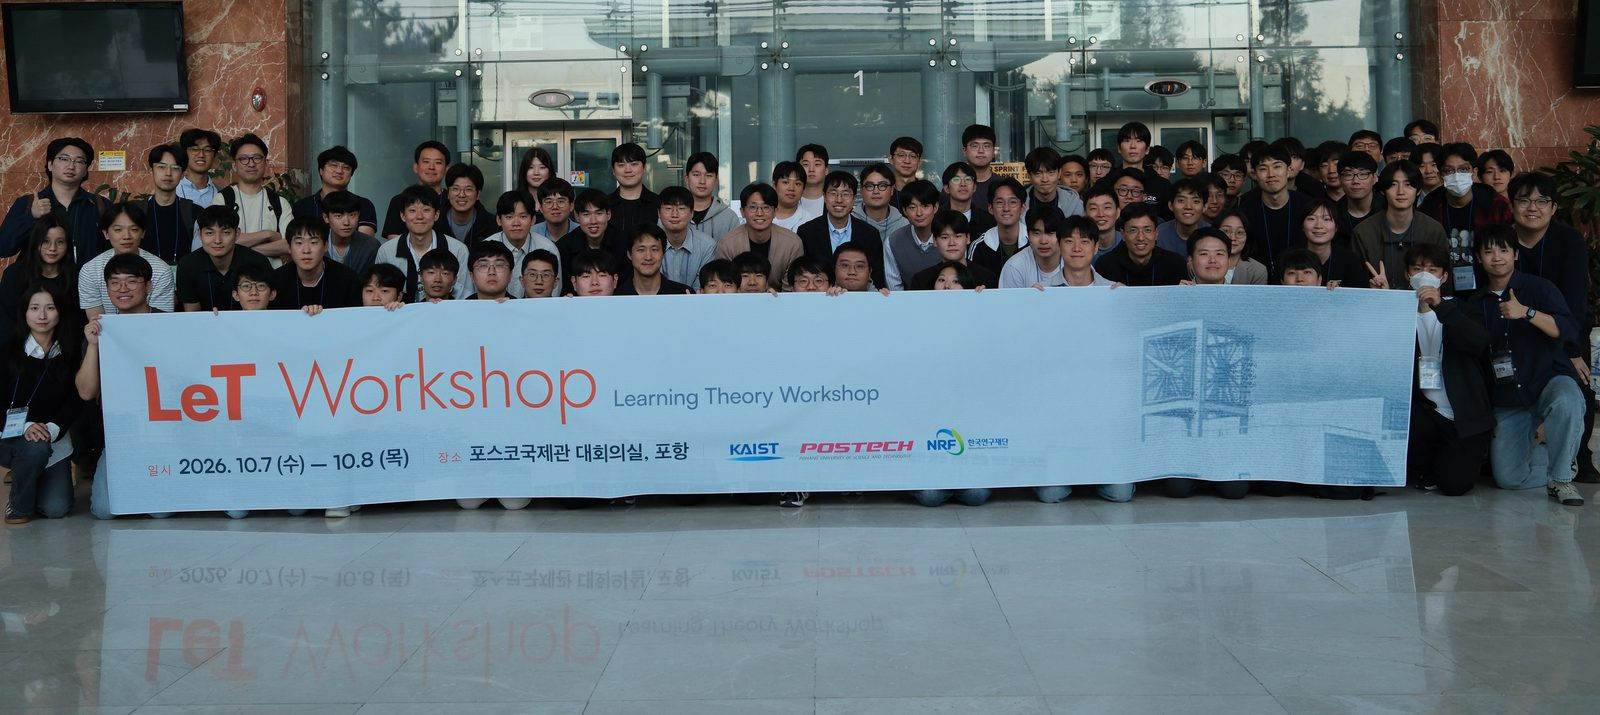
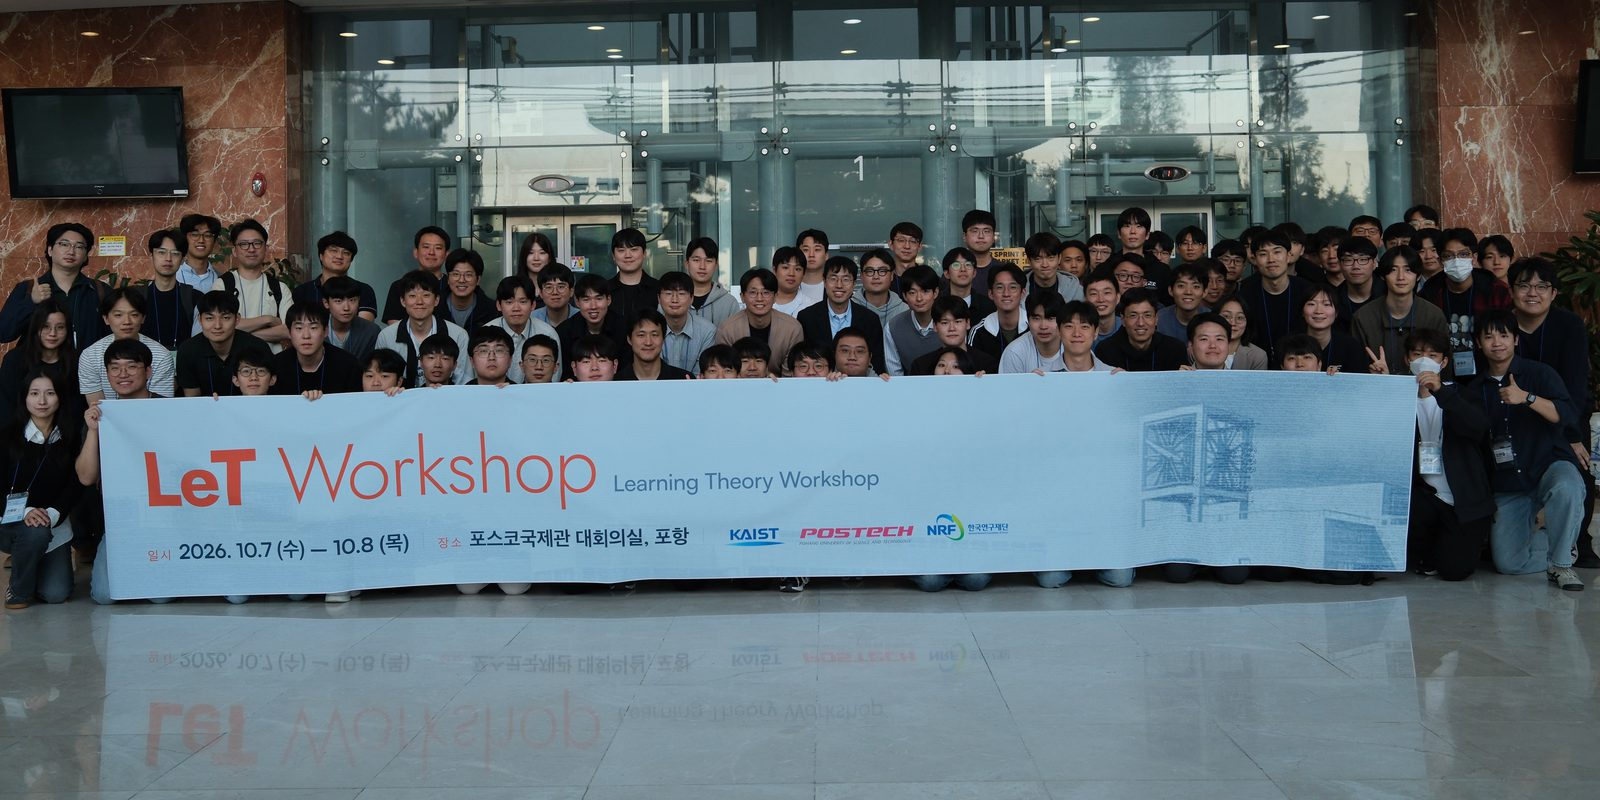
The crop is the page's, the original is the photograph — and 587KB stops being downloaded twice
A quarter off the top of the drawn copy rather than a third, so there is some
room above the crowd again; the full-size copy is no longer cropped at all.
Those are two different pictures now and should be: what the page draws is a
composition, two hundred pixels of ceiling being nothing to look at in a strip
that wide, and what opens behind "원본 보기" is the frame as it was taken,
which is what somebody asking for full size came for.

And the hero drawing was being downloaded twice on every first visit. The
preload asked for it with as="image"; the stylesheet uses it as a mask, which
is not the request a preload with as="image" can satisfy, so nothing ever
claimed the preloaded copy and the mask fetched its own. Both at full transfer
size, measured on a 390px viewport. The plate beside it is a background image,
the preload does match that one, and it stays.

Page weight on a phone goes 2.13MB to 1.49MB over the same 39 requests.

diff --git a/tools/prep-gallery.py b/tools/prep-gallery.py
@@ -50,8 +50,11 @@ def main() -> None:
     ap.add_argument("--no-full", action="store_true",
                     help="skip the full-size copy, for a picture not worth zooming")
     ap.add_argument("--crop-top", type=float, default=0, metavar="FRACTION",
-                    help="take this much off the top first, 0.33 for a third — "
-                         "a room photographed whole is mostly ceiling")
+                    help="take this much off the top of the drawn copy, 0.25 for "
+                         "a quarter — a room photographed whole is mostly "
+                         "ceiling. The full-size copy is never cropped: it is "
+                         "the picture as it was taken, which is what somebody "
+                         "opening it at full size came for")
     args = ap.parse_args()
 
     if not args.source.exists():
@@ -62,15 +65,21 @@ def main() -> None:
     # Pillow does not apply it on open — so a portrait arrives on its side.
     im = ImageOps.exif_transpose(Image.open(args.source)).convert("RGB")
     print(f"{args.source.name}  {im.width}×{im.height}")
+
+    # The crop is the page's, not the picture's. What the page draws is a
+    # composition — the ceiling is nothing to look at in a strip two hundred
+    # pixels tall — and what opens at full size is the photograph, where the
+    # room is part of what you are looking at.
+    shown = im
     if args.crop_top:
         if not 0 < args.crop_top < 1:
             raise SystemExit("--crop-top is a fraction of the height, 0 to 1")
         cut = round(im.height * args.crop_top)
-        im = im.crop((0, cut, im.width, im.height))
-        print(f"  cut {cut}px off the top  ->  {im.width}×{im.height}")
+        shown = im.crop((0, cut, im.width, im.height))
+        print(f"  drawn copy: {cut}px off the top  ->  {shown.width}×{shown.height}")
 
-    wide = im if im.width <= WIDE else im.resize(
-        (WIDE, round(im.height * WIDE / im.width)), Image.LANCZOS)
+    wide = shown if shown.width <= WIDE else shown.resize(
+        (WIDE, round(shown.height * WIDE / shown.width)), Image.LANCZOS)
     save(wide, OUT / f"{args.slug}.jpg", QUALITY)
     if not args.no_full:
         save(im, OUT / f"{args.slug}-full.jpg", FULL_QUALITY)
